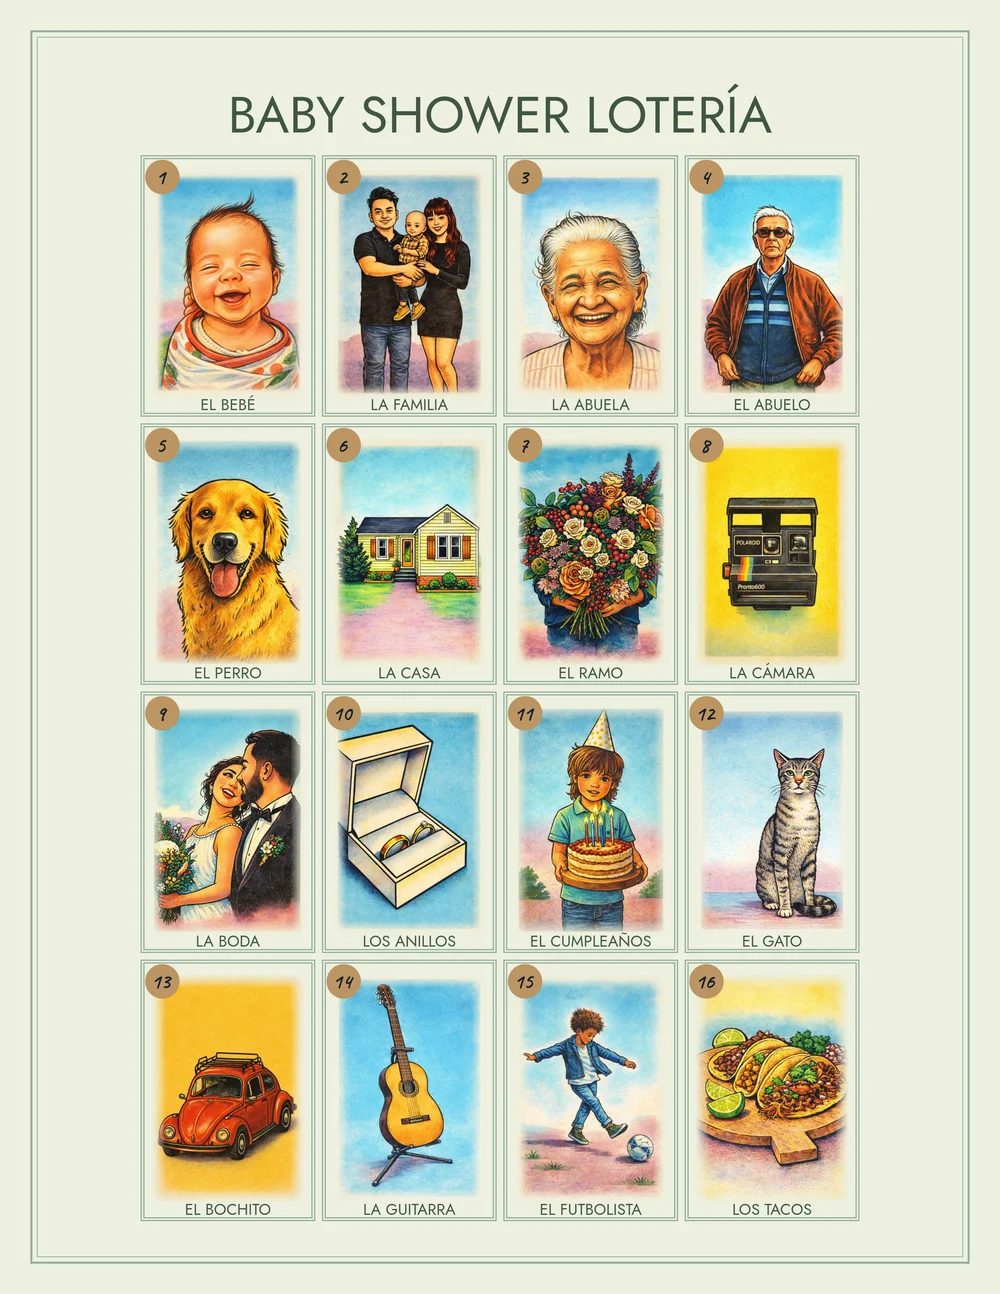
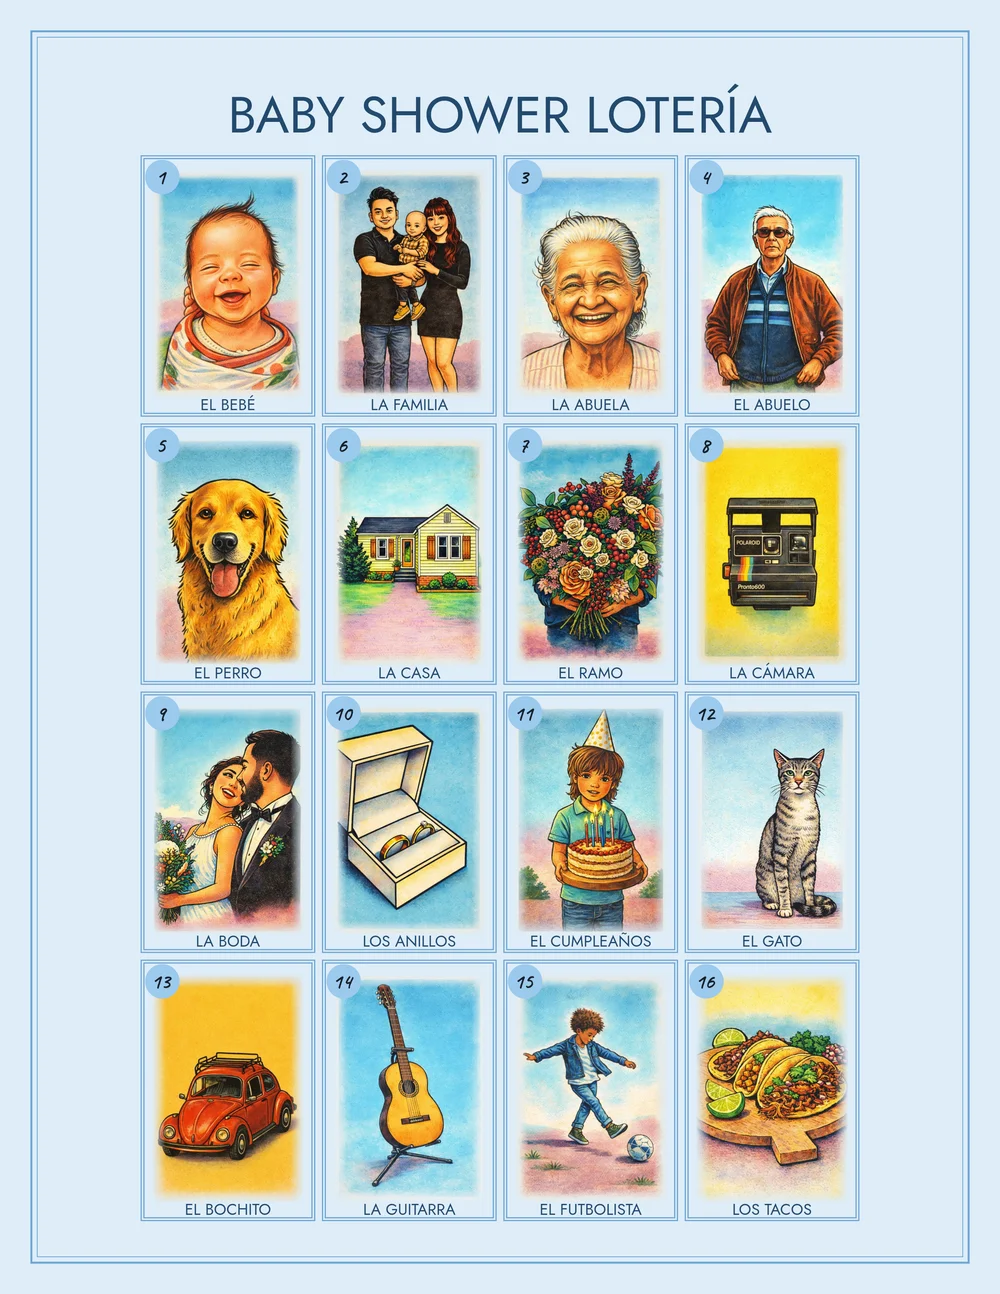
Split Baby Shower into Boy and Girl presets; pastel Easter palette
Baby Shower (Boy) uses baby blue and Baby Shower (Girl) uses pink. The
/loteria/baby-shower landing page stays one URL and offers a tinted CTA
for each preset. Easter moves to butter yellow, lavender, and mint.

diff --git a/app/[locale]/(marketing)/loteria/[theme]/page.tsx b/app/[locale]/(marketing)/loteria/[theme]/page.tsx
@@ -5,7 +5,7 @@ import { notFound } from 'next/navigation';
 import { getTranslations, setRequestLocale } from 'next-intl/server';
 import { Link } from '@/i18n/navigation';
 import { getThemePage, themePages, themeMode, themePath, themeTitle } from '@/lib/themes/catalog';
-import { themeVariables } from '@/lib/themes/presets';
+import { getTheme, themeVariables } from '@/lib/themes/presets';
 import { SITE_URL } from '@/lib/site-metadata';
 import { BOARD_UNLOCK_PRICE_DISPLAY, FREE_CARD_LIMIT, TOTAL_CARD_COUNT } from '@/lib/constants';
 import { ThemeCta, ThemeVisit } from '@/components/theme-cta';
@@ -59,11 +59,20 @@ export default async function ThemeLandingPage({ params }: Props) {
   const copy = page[language];
   const t = await getTranslations('Themes.Page');
   const title = themeTitle(page, locale);
-  const cta = (
-    <ThemeCta theme={page.id} mode={themeMode(theme)}>
-      {t('create', { name: copy.name })}
-    </ThemeCta>
-  );
+  const cta =
+    page.presets.length > 1 ? (
+      <div className="flex flex-wrap gap-3">
+        {page.presets.map((preset) => (
+          <ThemeCta key={preset} theme={preset} mode={themeMode(theme)} tinted>
+            {getTheme(preset).name[language]}
+          </ThemeCta>
+        ))}
+      </div>
+    ) : (
+      <ThemeCta theme={page.presets[0]} mode={themeMode(theme)}>
+        {t('create', { name: copy.name })}
+      </ThemeCta>
+    );
   const relatedIds: Record<string, string[]> = {
     halloween: ['friendsgiving', 'christmas', 'new-years'],
     wedding: ['bridal-shower', 'destination-wedding', 'anniversary'],
@@ -105,7 +114,7 @@ export default async function ThemeLandingPage({ params }: Props) {
     ],
   };
   return (
-    <article id="theme-content" style={themeVariables(page.id) as CSSProperties}>
+    <article id="theme-content" style={themeVariables(page.presets[0]) as CSSProperties}>
       <ThemeVisit theme={page.id} mode={themeMode(theme)} />
 
       <script

diff --git a/components/theme-cta.tsx b/components/theme-cta.tsx
@@ -8,10 +8,13 @@ import type { ThemeId, PhotoMode } from '@/lib/themes/presets';
 export function ThemeCta({
   theme,
   mode,
+  tinted = false,
   children,
 }: {
   theme: ThemeId;
   mode: PhotoMode;
+  /** Use the preset's own colors so side-by-side variants are distinguishable. */
+  tinted?: boolean;
   children: React.ReactNode;
 }) {
   const locale = useLocale();
@@ -23,7 +26,17 @@ export function ThemeCta({
         posthog.register({ landing_theme: theme, landing_locale: locale });
         posthog.capture('theme_cta_clicked', { theme, photo_mode: mode, locale });
       }}
-      className="inline-flex min-h-12 items-center justify-center rounded-full bg-primary px-7 py-3 text-base font-semibold text-primary-foreground shadow-md transition-colors hover:bg-primary/90 focus-visible:outline-2 focus-visible:outline-offset-4 focus-visible:outline-primary"
+      style={
+        tinted
+          ? {
+              backgroundColor: `var(--loteria-${theme}-ink)`,
+              color: `var(--loteria-${theme}-paper)`,
+            }
+          : undefined
+      }
+      className={`inline-flex min-h-12 items-center justify-center rounded-full px-7 py-3 text-base font-semibold shadow-md transition-[background-color,opacity] focus-visible:outline-2 focus-visible:outline-offset-4 focus-visible:outline-primary ${
+        tinted ? 'hover:opacity-90' : 'bg-primary text-primary-foreground hover:bg-primary/90'
+      }`}
     >
       {children}
       <span aria-hidden="true" className="ml-3">
@@ -33,7 +46,7 @@ export function ThemeCta({
   );
 }
 
-export function ThemeVisit({ theme, mode }: { theme: ThemeId; mode: PhotoMode }) {
+export function ThemeVisit({ theme, mode }: { theme: string; mode: PhotoMode }) {
   const locale = useLocale();
   useEffect(() => {
     posthog.capture('theme_page_viewed', { theme, photo_mode: mode, locale });

diff --git a/app/globals.css b/app/globals.css
@@ -277,11 +277,16 @@
   --loteria-wedding-badge: #7b946c;
   --loteria-wedding-number: #17202a;
   --loteria-wedding-accent: #b38d4d;
-  --loteria-baby-shower-paper: #edf0df;
-  --loteria-baby-shower-ink: #405645;
-  --loteria-baby-shower-badge: #bc9562;
-  --loteria-baby-shower-number: #17202a;
-  --loteria-baby-shower-accent: #91ad9d;
+  --loteria-baby-shower-boy-paper: #deedf8;
+  --loteria-baby-shower-boy-ink: #234a6e;
+  --loteria-baby-shower-boy-badge: #9ccaee;
+  --loteria-baby-shower-boy-number: #17202a;
+  --loteria-baby-shower-boy-accent: #6ea6d4;
+  --loteria-baby-shower-girl-paper: #fce4ee;
+  --loteria-baby-shower-girl-ink: #873a5d;
+  --loteria-baby-shower-girl-badge: #f4a9c4;
+  --loteria-baby-shower-girl-number: #17202a;
+  --loteria-baby-shower-girl-accent: #e48db0;
   --loteria-bridal-shower-paper: #f7e5e6;
   --loteria-bridal-shower-ink: #673d47;
   --loteria-bridal-shower-badge: #b46c79;
@@ -347,11 +352,11 @@
   --loteria-hanukkah-badge: #879bc6;
   --loteria-hanukkah-number: #17202a;
   --loteria-hanukkah-accent: #b9a766;
-  --loteria-easter-paper: #f2e7ef;
-  --loteria-easter-ink: #64475e;
-  --loteria-easter-badge: #cda078;
-  --loteria-easter-number: #17202a;
-  --loteria-easter-accent: #a4b788;
+  --loteria-easter-paper: #fdf6d9;
+  --loteria-easter-ink: #5b4a8c;
+  --loteria-easter-badge: #b5e3c8;
+  --loteria-easter-number: #2e2652;
+  --loteria-easter-accent: #c4abe8;
   --loteria-number-ink: #ffffff;
   --loteria-cut-guide: #9ca3af;
   --loteria-white: #ffffff;

diff --git a/lib/themes/catalog.ts b/lib/themes/catalog.ts
@@ -14,7 +14,10 @@ export interface ThemePage {
     assets: { board: string; photo: string; card: string };
   };
   published: boolean;
-  id: ThemeId;
+  /** Landing slug; usually also the render preset. */
+  id: string;
+  /** Presets offered by this page's CTAs; the first sets the page colors. */
+  presets: ThemeId[];
   updatedAt: string;
   en: ThemeCopy;
   'es-MX': ThemeCopy;
@@ -22,10 +25,11 @@ export interface ThemePage {
 export const themePages: ThemePage[] = content
   .filter((page) => page.published)
   .map((page) => {
-    if (!isThemeId(page.id)) throw new Error(`Landing page has no render preset: ${page.id}`);
+    const presets: string[] = ('presets' in page && page.presets) || [page.id];
+    if (!presets.every(isThemeId)) throw new Error(`Landing page has no render preset: ${page.id}`);
     const sample = samples[page.id as keyof typeof samples];
     if (!sample) throw new Error(`Missing sample: ${page.id}`);
-    return { ...page, id: page.id, sample, published: page.published };
+    return { ...page, presets, sample, published: page.published };
   });
 export function getThemePage(id: string) {
   return themePages.find((page) => page.id === id);

diff --git a/__tests__/lib/theme-catalog.test.ts b/__tests__/lib/theme-catalog.test.ts
@@ -10,13 +10,14 @@ describe('theme catalog and acquisition settings', () => {
     expect(themePages).toHaveLength(21);
     expect(new Set(themePages.map((page) => page.id)).size).toBe(21);
     for (const page of themePages) {
-      expect(themePresets.some((preset) => preset.id === page.id)).toBe(true);
+      for (const id of page.presets)
+        expect(themePresets.some((preset) => preset.id === id)).toBe(true);
       expect(page.en.ideas.length).toBeGreaterThanOrEqual(6);
       expect(page['es-MX'].ideas.length).toBeGreaterThanOrEqual(6);
       expect(page.en.intro).not.toEqual(page['es-MX'].intro);
       expect(page.sample.etsyListingId).toMatch(/^\d+$/);
       const sample = JSON.parse(readFileSync(page.sample.manifest, 'utf8'));
-      expect(sample.styles.presetId).toBe(page.id);
+      expect(page.presets).toContain(sample.styles.presetId);
       expect(
         new Set(sample.cards.map((card: { id: string }) => card.id)).size
       ).toBeGreaterThanOrEqual(16);

diff --git a/app/[locale]/(marketing)/loteria/page.tsx b/app/[locale]/(marketing)/loteria/page.tsx
@@ -55,7 +55,7 @@ export default async function ThemesHub({ params }: { params: Promise<{ locale: 
           <Link
             key={page.id}
             href={`/loteria/${page.id}`}
-            style={themeVariables(page.id) as CSSProperties}
+            style={themeVariables(page.presets[0]) as CSSProperties}
             className="theme-surface group overflow-hidden rounded-lg border border-border shadow-sm focus-visible:outline-2 focus-visible:outline-offset-4 focus-visible:outline-primary"
           >
             <div className="px-12 pt-8 h-72 overflow-hidden">

diff --git a/lib/themes/presets.ts b/lib/themes/presets.ts
@@ -127,8 +127,14 @@ export const themePresets = [
   },
   { id: 'wedding', name: { en: 'Wedding', 'es-MX': 'Boda' }, frame: 'none', font: 'Jost' },
   {
-    id: 'baby-shower',
-    name: { en: 'Baby Shower', 'es-MX': 'Baby shower' },
+    id: 'baby-shower-boy',
+    name: { en: 'Baby Shower (Boy)', 'es-MX': 'Baby shower (niño)' },
+    frame: 'none',
+    font: 'Jost',
+  },
+  {
+    id: 'baby-shower-girl',
+    name: { en: 'Baby Shower (Girl)', 'es-MX': 'Baby shower (niña)' },
     frame: 'none',
     font: 'Jost',
   },

diff --git a/scripts/themes/prepare-assets.ts b/scripts/themes/prepare-assets.ts
@@ -59,7 +59,7 @@ async function main() {
       }
       manifest = {
         title: `${theme.en.name} Lotería`,
-        styles: { presetId: theme.id, showTitle: true },
+        styles: { presetId: theme.presets[0], showTitle: true },
         cards: records,
         compareId,
         sourcePackage: source,

diff --git a/docs/themed-loteria.md b/docs/themed-loteria.md
@@ -14,7 +14,7 @@ All card insertion paths use `lib/boards/add-cards.ts`: a parent-row lock and in
 
 - `lib/themes/presets.ts`: small builder catalog and shared style/photo-mode types.
 - `app/globals.css`: website and print palette variables, with licensed local display fonts.
-- `lib/themes/content.json`: bilingual occasion content, publication flag, meaningful modification date.
+- `lib/themes/content.json`: bilingual occasion content, publication flag, meaningful modification date. Optional `presets` lets one page offer several presets (e.g. Baby Shower → Boy and Girl); the first sets the page colors.
 - `lib/themes/samples.json`: sample/asset/Etsy references.
 - `scripts/themes/samples/`: render manifests.
 - `scripts/themes/provenance/`: source and generation provenance, separate from product images.
